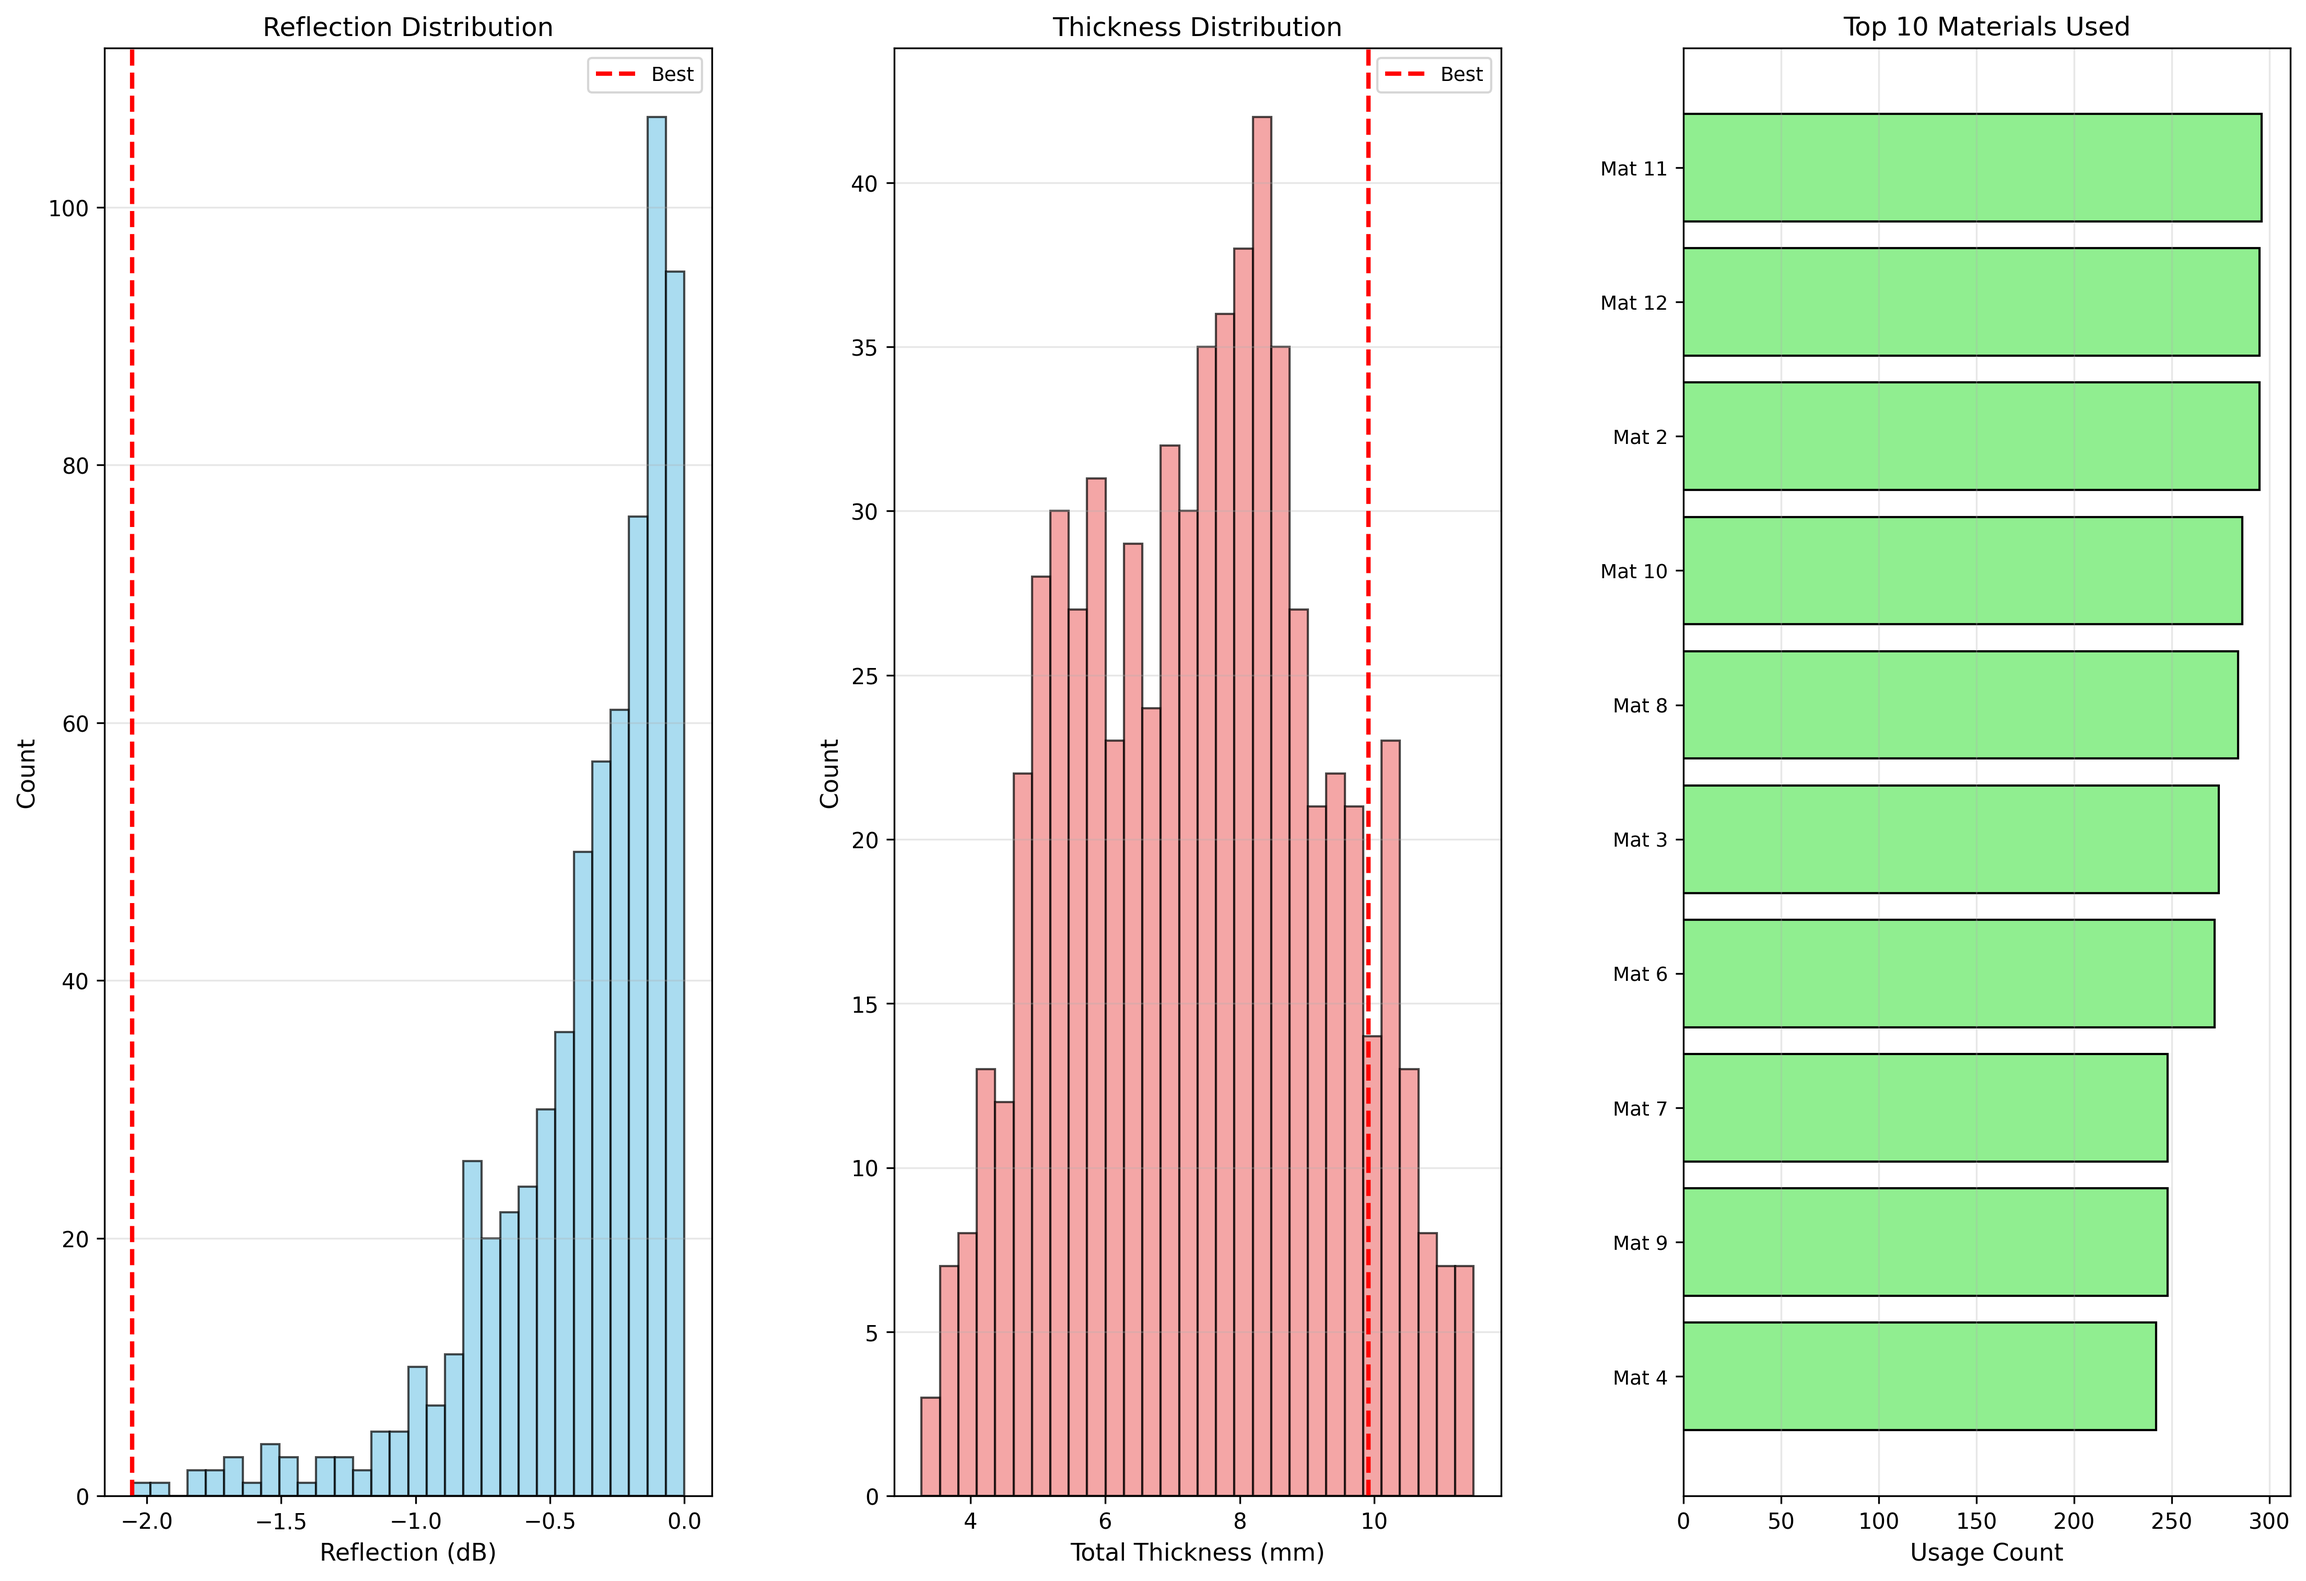
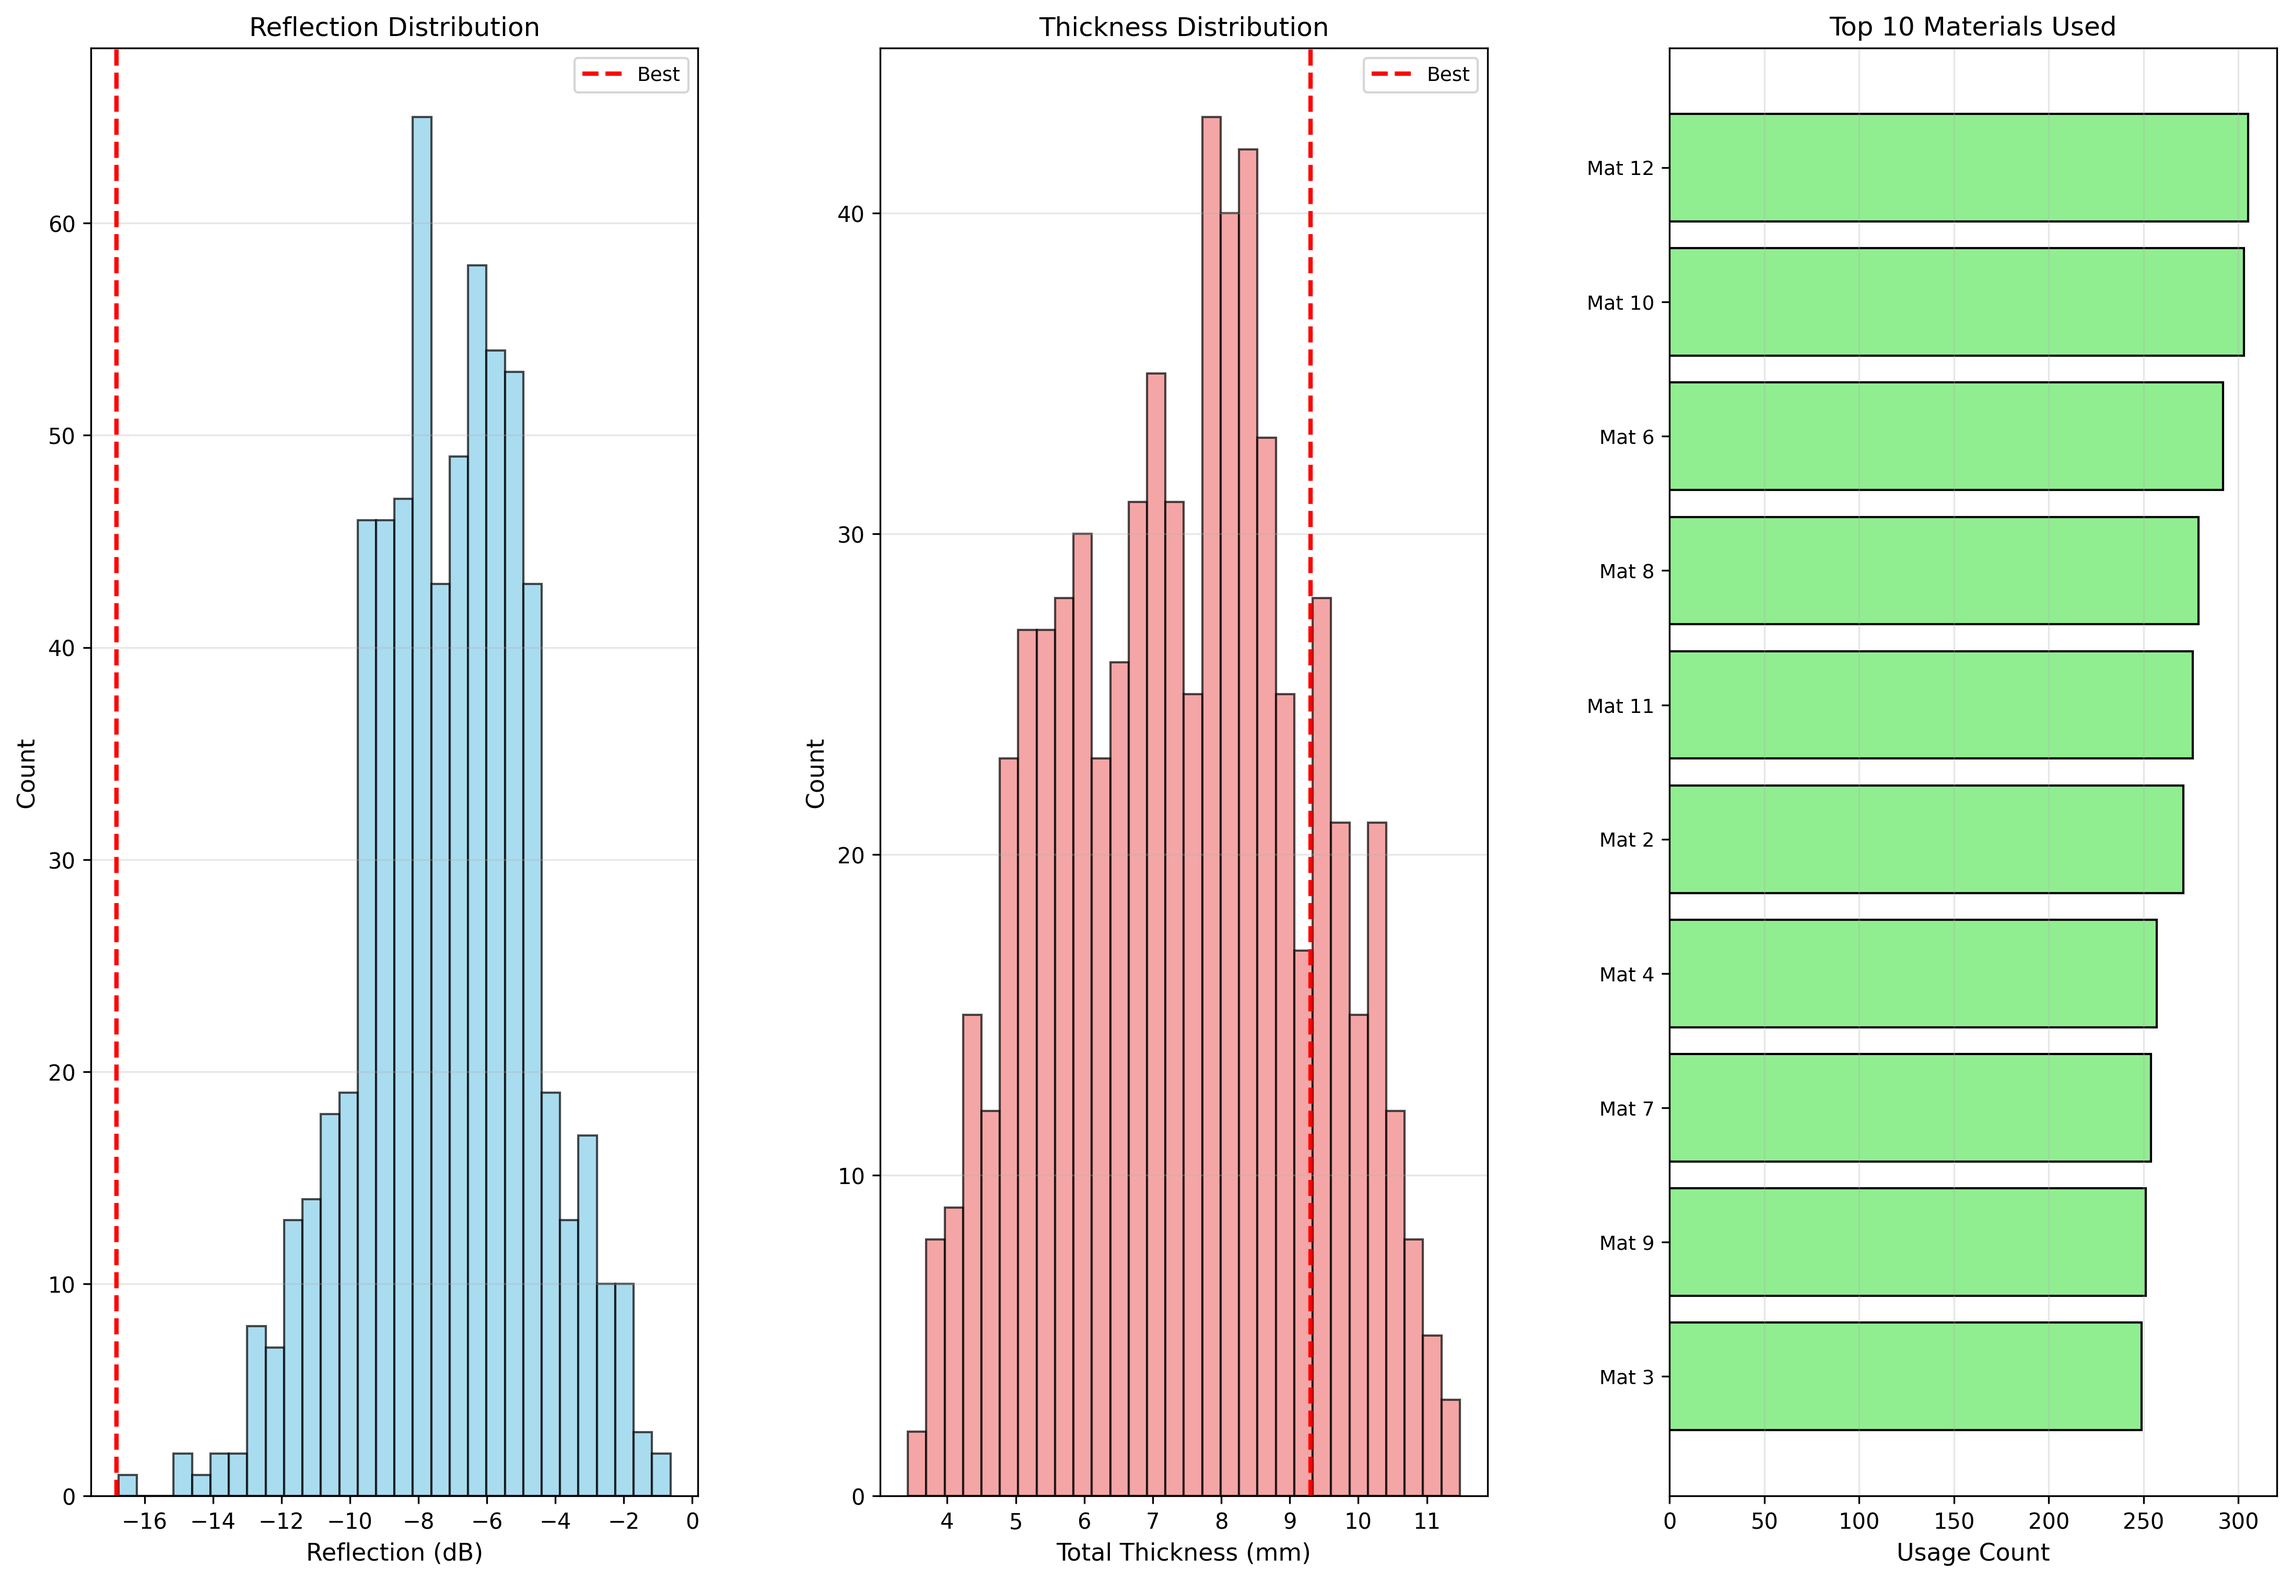
some minor fixes

diff --git a/radar/Real_Materials/Optimization/Bay_Real_GAUSSIAN.py b/radar/Real_Materials/Optimization/Bay_Real_GAUSSIAN.py
@@ -1,6 +1,7 @@
 # you need to pip install scikit-optimize
 
 import numpy as np
+import pandas as pd
 import jax
 import jax.numpy as jnp
 import matplotlib.pyplot as plt
@@ -31,7 +32,7 @@ utils_materials_real.get_eps_mus_real_materials = patched_get_eps_mus_real_mater
 
 
 # Frequency range
-FREQ_MIN_GHZ = 0.2
+FREQ_MIN_GHZ = 2.0
 FREQ_MAX_GHZ = 8.0
 NUM_FREQ_POINTS = 500
 
@@ -558,3 +559,160 @@ print(f"  Kernel: Matérn 5/2")
 print(f"  Acquisition: {ACQUISITION_FUNC}")
 print(f"  Total evaluations: {tracker.eval_count}")
 print(f"  Best reflection: {best_reflection:.2f} dB")
+
+
+print("\n" + "="*80)
+print("CREATING GA-STYLE COMPARISON PLOTS")
+print("="*80)
+
+# Calculate generation-equivalent metrics for Bayesian optimization
+evaluations_per_generation = max(1, (NUM_INITIAL_POINTS + NUM_GP_ITERATIONS) // 20)
+num_pseudo_generations = len(tracker.all_reflections) // evaluations_per_generation
+
+avg_thickness_per_generation = []
+avg_reflection_per_generation = []
+
+for gen in range(num_pseudo_generations):
+    start_idx = gen * evaluations_per_generation
+    end_idx = min((gen + 1) * evaluations_per_generation, len(tracker.all_reflections))
+    
+    if start_idx < len(tracker.all_reflections):
+        gen_reflections = tracker.all_reflections[start_idx:end_idx]
+        gen_thicknesses = tracker.all_total_thicknesses[start_idx:end_idx]
+        
+        avg_reflection_per_generation.append(np.mean(gen_reflections))
+        avg_thickness_per_generation.append(np.mean(gen_thicknesses))
+
+# Normalize generation indices for color mapping (0 to 1)
+if len(avg_thickness_per_generation) > 1:
+    generation_indices = np.linspace(0, 1, len(avg_thickness_per_generation))
+else:
+    generation_indices = np.array([0.5])
+
+# Convert thicknesses from mm to meters for plotting (matching GA)
+pareto_total_thick_m = [t * 1e-3 for t in pareto_total_thick]
+refined_total_thick_m = [t * 1e-3 for t in refined_total_thick]
+avg_thickness_per_generation_m = [t * 1e-3 for t in avg_thickness_per_generation]
+
+# Literature data (matching GA exactly) - ALREADY IN METERS
+paperLFx = [0.005512, 0.003588, 0.002934, 0.002478]
+paperLFy = [-33, -21, -18, -14]
+paperHFx = [0.005244, 0.002670, 0.001761, 0.001236]
+paperHFy = [-23.5, -19.8, -17, -13]
+
+# ============================================================================
+# PLOT 1: PARETO FRONT WITH GRADIENT OPTIMIZATION (EXACT GA MATCH)
+# This exactly matches the first GA plot
+# ============================================================================
+
+plt.figure(figsize=(8, 6))
+
+# Plot mean points with viridis colormap (matching GA style exactly)
+plt.scatter(avg_thickness_per_generation_m, avg_reflection_per_generation, 
+           c=generation_indices, cmap='viridis', alpha=0.7, 
+           label="Mean Points")
+
+# Plot Pareto front in RED (matching GA style)
+plt.scatter(pareto_total_thick_m, pareto_ref, color='r', 
+           label="Pareto Front")
+
+# Plot gradient-optimized Pareto front in MAGENTA (matching GA style)
+plt.scatter(refined_total_thick_m, refined_ref, color='m', 
+           label="Gradient Pareto Front")
+
+# IEEE paper HF comparison (matching GA style exactly)
+# Choose which literature data to plot - HF for high frequency, LF for low frequency
+# Uncomment the one you want to use:
+
+# For HIGH FREQUENCY optimization (2-8 GHz):
+plt.plot(paperHFx, paperHFy, 'r--', label="Literature HF")
+plt.scatter(paperHFx, paperHFy, color='b')
+
+# For LOW FREQUENCY optimization (0.2-2 GHz):
+# plt.plot(paperLFx, paperLFy, 'r--', label="Literature LF")
+# plt.scatter(paperLFx, paperLFy, color='b')
+
+plt.xlabel("Total Thickness (m)")
+plt.ylabel("Max Reflection (dB)")
+plt.title("Pareto Front")
+plt.legend()
+plt.grid(True)
+plt.tight_layout()
+
+plt.savefig('GP_Pareto_Front_Plot1.png', dpi=300, bbox_inches='tight')
+print("Saved: GP_Pareto_Front_Plot1.png")
+plt.show()
+
+# ============================================================================
+# PLOT 2: PARETO FRONT WITH ALL GRADIENT POINTS (EXACT GA MATCH)
+# This exactly matches the second GA plot showing gradient descent iterations
+# ============================================================================
+
+plt.figure(figsize=(8, 6))
+
+# Plot mean points with viridis colormap
+plt.scatter(avg_thickness_per_generation_m, avg_reflection_per_generation, 
+           c=generation_indices, cmap='viridis', alpha=0.7, 
+           label="Mean Points")
+
+# Plot original Pareto front in RED
+plt.scatter(pareto_total_thick_m, pareto_ref, color='r', 
+           label="Pareto Front")
+
+# Plot ALL gradient-optimized points in MAGENTA (showing gradient descent path)
+plt.scatter(refined_total_thick_m, refined_ref, color='m', 
+           label="Gradient Points")
+
+# IEEE paper comparison - choose HF or LF
+# For HIGH FREQUENCY optimization (2-8 GHz):
+plt.plot(paperHFx, paperHFy, 'r--', label="Literature HF")
+plt.scatter(paperHFx, paperHFy, color='b')
+
+# For LOW FREQUENCY optimization (0.2-2 GHz):
+# plt.plot(paperLFx, paperLFy, 'r--', label="Literature LF")
+# plt.scatter(paperLFx, paperLFy, color='b')
+
+plt.xlabel("Total Thickness (m)")
+plt.ylabel("Max Reflection (dB)")
+plt.title("Pareto Front")
+plt.legend()
+plt.grid(True)
+plt.tight_layout()
+
+plt.savefig('GP_Pareto_Front_Plot2.png', dpi=300, bbox_inches='tight')
+print("Saved: GP_Pareto_Front_Plot2.png")
+plt.show()
+
+# ============================================================================
+# SAVE PARETO DATA TO CSV (EXACT GA FORMAT MATCH)
+# ============================================================================
+
+# Dynamically build the CSV based on NUM_LAYERS
+pareto_data = {}
+
+# Add material columns
+for i in range(NUM_LAYERS):
+    pareto_data[f"Material {i+1}"] = [int(pareto_mats[j][i]) for j in range(len(pareto_mats))]
+
+# Add thickness columns (convert mm to m)
+for i in range(NUM_LAYERS):
+    pareto_data[f"Thickness {i+1} (m)"] = [refined_layer_thick[j][i] * 1e-3 for j in range(len(refined_layer_thick))]
+
+# Add total thickness and reflection
+pareto_data["Total Thickness (m)"] = refined_total_thick_m
+pareto_data["Max Reflection (dB)"] = refined_ref
+
+pareto_df = pd.DataFrame(pareto_data)
+pareto_df.to_csv("GP_Pareto.csv", index=False)
+print("\nPareto front materials and layer thicknesses saved to 'GP_Pareto.csv'")
+
+# ============================================================================
+# PRINT SUMMARY (MATCHING GA OUTPUT STYLE)
+# ============================================================================
+
+print("\n" + "="*80)
+print(f"Total evaluations: {len(tracker.all_reflections)}")
+print(f"Pareto-optimal solutions: {len(refined_ref)}")
+best_idx = np.argmin(refined_ref)
+print(f"Best reflection: {refined_ref[best_idx]:.2f} dB at thickness {refined_total_thick_m[best_idx]:.6f} m")
+print("="*80)
